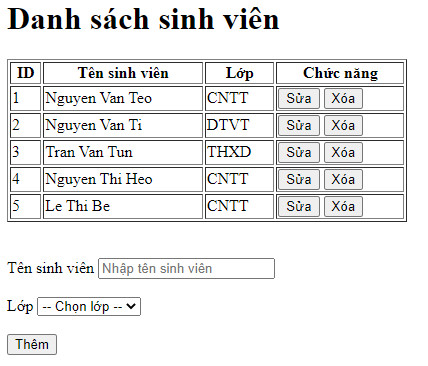
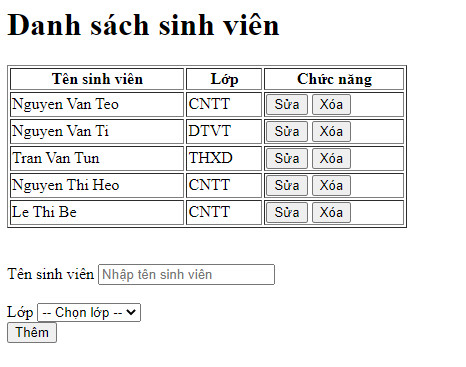
x

diff --git a/main.js b/main.js
@@ -44,180 +44,3 @@ const classList = [
         name: 'XDDD'
     }
 ]
-
-function getClassByIds(classIds) {
-    return classList.filter(function (el) {
-        return classIds.includes(el.id);
-    })
-}
-
-function getClassNameById(id) {
-    return classList.find(function (el) {
-        return el.id === id;
-    }).name;
-}
-
-const classIds = students.map(function (student) {
-    return student.classId;
-})
-
-const classByIds = getClassByIds(classIds);
-// console.log(classByIds);
-
-const listStudents = [];
-students.forEach(function (student) {
-    const classInfo = classByIds.find(function (el) {
-        return el.id === student.classId;
-    })
-    const newSt = {
-        id: student.id,
-        studentName: student.name,
-        classId: classInfo.id,
-        className: classInfo.name
-    }
-    listStudents.push(newSt);
-})
-
-const tbElement = document.querySelector('#tbl');
-
-// Tiêu đề
-const tr1Element = document.createElement('tr');
-
-const htmlTitle = `
-        <th>Tên sinh viên</th>
-        <th>Lớp</th>
-        <th>Chức năng</th>
-    `;
-
-tr1Element.innerHTML = htmlTitle;
-tbElement.appendChild(tr1Element);
-
-function renderStudent(student) {
-    var trElement = document.createElement('tr');
-    trElement.setAttribute('class', 'student-' + student.id);
-
-    const htmlContent = `
-            <td>${student.studentName}</td>
-            <td>${student.className}</td>
-            <td>
-                <button onclick="onUpdate('${student.id}', '${student.classId}')">Sửa</button>
-                <button onclick="onDelete('${student.id}')">Xóa</button>
-            </td>
-        `;
-
-    trElement.innerHTML = htmlContent;
-    return trElement;
-}
-
-// Nội dung
-listStudents.forEach(function (student) {
-    var trElement = renderStudent(student);
-    tbElement.appendChild(trElement);
-})
-
-const classElement = document.querySelector('#class');
-
-var htmlOptions = `<option value=''>-- Chọn lớp --</option>`;
-classList.forEach(function (classInfo) {
-    htmlOptions += `
-            <option value='${classInfo.id}'>${classInfo.name}</option>
-        `;
-})
-
-classElement.innerHTML = htmlOptions;
-
-var addBtnElement = document.getElementById('create');
-var editBtnElement = document.getElementById('update');
-
-const stName = document.querySelector('input[name="name"]');
-const classInfo = document.querySelector('select[name="class"]');
-
-function generateUuid() {
-    return 'xxxx-xxxx-xxx-xxxx'.replace(/[x]/g, function (c) {
-        var r = Math.random() * 16 | 0, v = c == 'x' ? r : (r & 0x3 | 0x8);
-        return v.toString(16);
-    });
-}
-
-addBtnElement.onclick = function (e) {
-    e.preventDefault();
-
-    const newSt = {
-        id: generateUuid(),
-        studentName: stName.value,
-        classId: Number(classInfo.value),
-        className: getClassNameById(classInfo.value)
-    }
-
-    listStudents.push(newSt);
-
-    stName.value = '';
-    classInfo.value = '';
-    const tr3Element = renderStudent(newSt);
-
-    tbElement.appendChild(tr3Element);
-}
-
-var idEd;
-function onUpdate(id, classId) {
-    idEd = id;
-    // Tìm sinh viên muốn sửa
-    var student = listStudents.find(function (st) {
-        return st.id === idEd;
-    })
-
-    stName.value = student.studentName;
-    classInfo.value = classId;
-
-    addBtnElement.setAttribute('style', 'display: none');
-    editBtnElement.setAttribute('style', 'display: block');
-}
-
-editBtnElement.onclick = function (e) {
-    e.preventDefault();
-    const edSt = {
-        id: idEd,
-        studentName: stName.value,
-        classId: Number(classInfo.value),
-        className: getClassNameById(classInfo.value)
-    }
-
-    var idx = listStudents.findIndex(function (student) {
-        return student.id === idEd;
-    })
-    listStudents.splice(idx, 1, edSt);
-
-    const htmls = `
-                <td>${edSt.studentName}</td>
-                <td>${edSt.className}</td>
-                <td>
-                    <button onclick="onUpdate('${edSt.id}', '${edSt.classId}')">Sửa</button>
-                    <button onclick="onDelete('${edSt.id}')">Xóa</button>
-                </td>
-            `;
-
-    var editElement = document.querySelector('.student-' + idEd);
-    if (editElement) {
-        editElement.innerHTML = htmls;
-    }
-    addBtnElement.setAttribute('style', 'display: block');
-    editBtnElement.setAttribute('style', 'display: none');
-    stName.value = '';
-    classInfo.value = '';
-}
-
-function onDelete(id) {
-    if (confirm("Bạn có chắc muốn xóa?")) {
-        var idx = listStudents.findIndex(function (student) {
-            return student.id === id;
-        })
-
-        if (idx !== -1) {
-            listStudents.splice(idx, 1);
-        }
-        var deleteElement = document.querySelector('.student-' + id);
-        if (deleteElement) {
-            deleteElement.remove();
-        }
-    }
-}

diff --git a/README.md b/README.md
@@ -3,47 +3,47 @@
 ```js
 const students = [
     {
-        id: 1,
+        id: '1',
         name: 'Nguyen Van Teo',
-        classId: 1
+        classId: '1'
     },
     {
-        id: 2,
+        id: '2',
         name: 'Nguyen Van Ti',
-        classId: 2
+        classId: '2'
     },
     {
-        id: 3,
+        id: '3',
         name: 'Tran Van Tun',
-        classId: 3
+        classId: '3'
     },
     {
-        id: 4,
+        id: '4',
         name: 'Nguyen Thi Heo',
-        classId: 1
+        classId: '1'
     },
     {
-        id: 5,
+        id: '5',
         name: 'Le Thi Be',
-        classId: 1
+        classId: '1'
     }
 ]
 
 const classList = [
     {
-        id: 1,
+        id: '1',
         name: "CNTT"
     },
     {
-        id: 2,
+        id: '2',
         name: 'DTVT'
     },
     {
-        id: 3,
+        id: '3',
         name: 'THXD'
     },
     {
-        id: 4,
+        id: '4',
         name: 'XDDD'
     }
 ]
